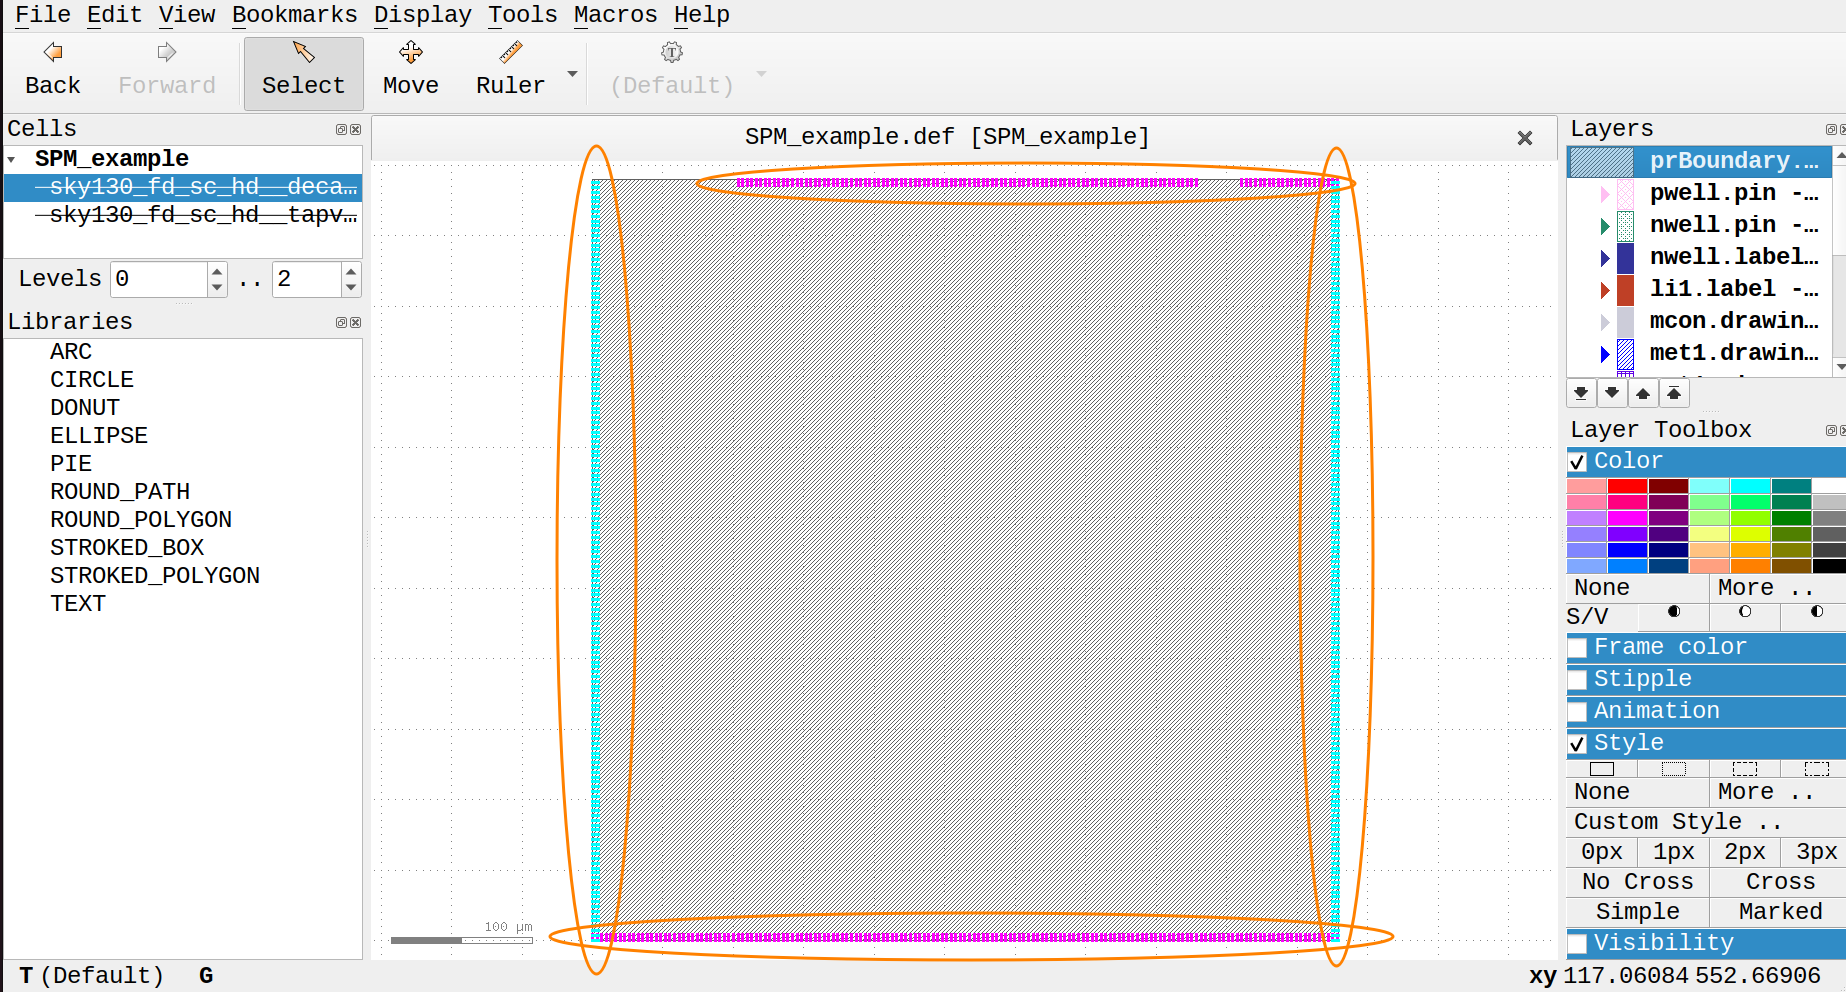
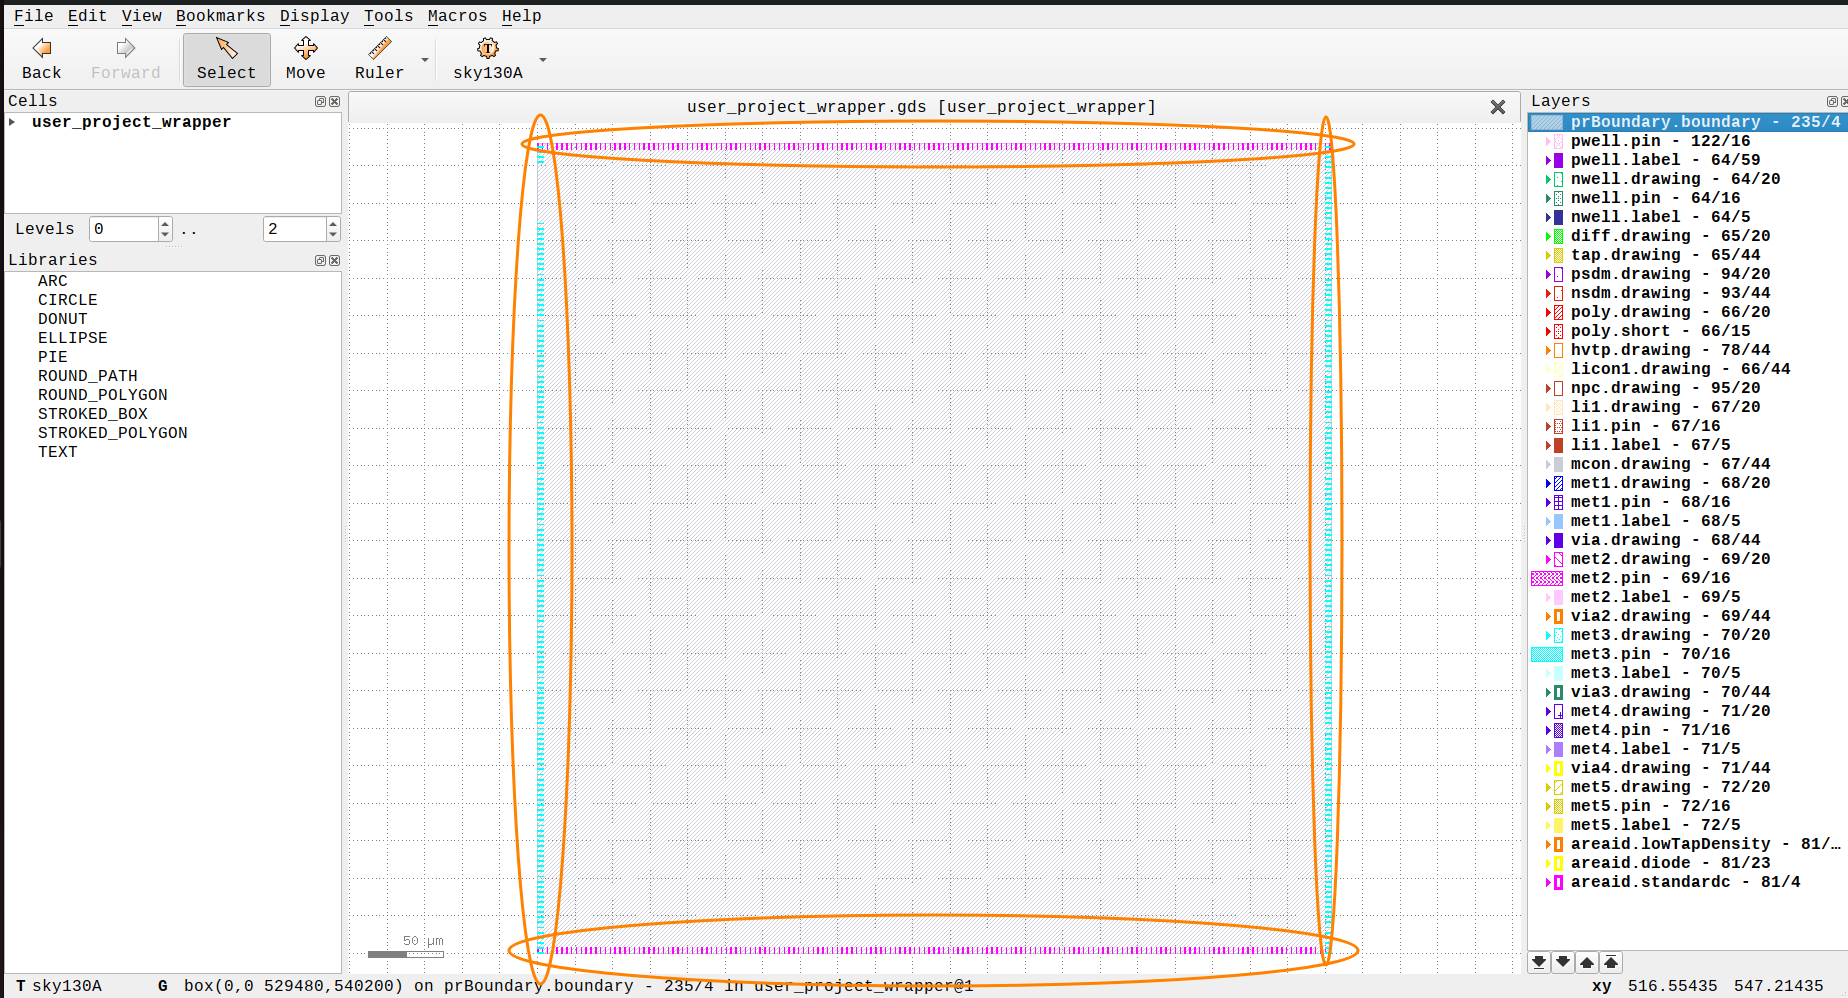
More tweaks

diff --git a/docs/source/getting_started/newcomers/index.md b/docs/source/getting_started/newcomers/index.md
@@ -203,7 +203,6 @@ This opens [KLayout](../../glossary.md#term-KLayout) and you should be able to s
 ```{figure} ./spm-gds.png
 :align: center
 
-Final GDSII view of SPM #TODO CROP
 ```
 
 If you wish to use [OpenROAD](../../glossary.md#term-OpenROAD) GUI use the following:
@@ -298,7 +297,7 @@ RUN_2023-12-27_16-59-15
 └── warning.log
 ```
 
-##### Viewing Intermediate Layout
+#### Viewing Intermediate Layout
 
 Additionally, you can view the intermediate layout at each `Step`:
 
@@ -371,9 +370,19 @@ DRC (Design Rule Checking) Flow
 If `DRC` errors are found OpenLane will generate an error reporting
 the total count of violations found by each `Step`.
 
-To view `DRC` errors graphically. Open the layout, as mentioned in [Viewing the Layout](#viewing-the-layout).
+To view `DRC` errors graphically. Open the layout:
+
+```console
+[nix-shell:~/openlane2]$ openlane --last-run --flow openinklayout ~/my_designs/spm/config.json
+```
+
 Then in the menu bar select Tools -> Marker Browser. A new window should open.
-Then select File -> import and then select the report file you would like to open.
+
+```{figure} ./klayout-markerbrowser-menu.png
+:align center
+```
+
+Then select File -> open and then select the report file you would like to open.
 Report files will be found under `52-magic-drc/reports/drc.klayout.xml` and
 `53-klayout-drc/report/drc.klayout.xml`
 
@@ -381,11 +390,9 @@ Report files will be found under `52-magic-drc/reports/drc.klayout.xml` and
 The intial number in `53-klayout-drc` (`53`) may vary according to a design configuration.
 :::
 
-```{image} ./klayout-markerbrowser-menu.png
-:align: center
+```{figure} ./klayout-markerbrowser-menu-2.png
+:align center
 ```
-
-TODO: MORE SCREENSHOTS AND HIGHLIGHT BOXES
 
 #### LVS
 
@@ -729,8 +736,6 @@ Let's view the layout:
 [nix-shell:~/openlane2]$ openlane --last-run --flow openinklayout ~/my_designs/spm-user_project_wrapper/config.json
 ```
 
-TODO: redo screenshot to display gds
-
 ```{figure} ./spm-caravel-user-project-util.png
 
 SPM with 5% utilization
@@ -787,7 +792,25 @@ data IO pins but often much larger.
 
 Here is another an example of a macro that is fully integrated inside `Caravel`:
 
-TODO: insert screenshot of caravel user proejct example here higlighting the PDN.
+```{figure} ./caravel-1.png
+:align: center
+
+Example of a macro integrated inside Caravel
+```
+
+This figure displays `Caravel` chip. The higlighted rectangle is where
+`Caravel User Project Wrapper` is. Let's zoom in at the top right corner of
+this area.
+
+```{figure} ./caravel-pdn-2.png
+:align: center
+
+Top right corner
+```
+
+As higlighted there are power rings surrounding our wrapper. connectivity
+between the wrapper rings and the chip is done through the higlighted light blue
+`met3` wires.
 
 Our `PDN` of `Caravel User Project Wrapper` has to be configured to look like the
 figure shown above. This is done by using a collection of variables which are resposible
